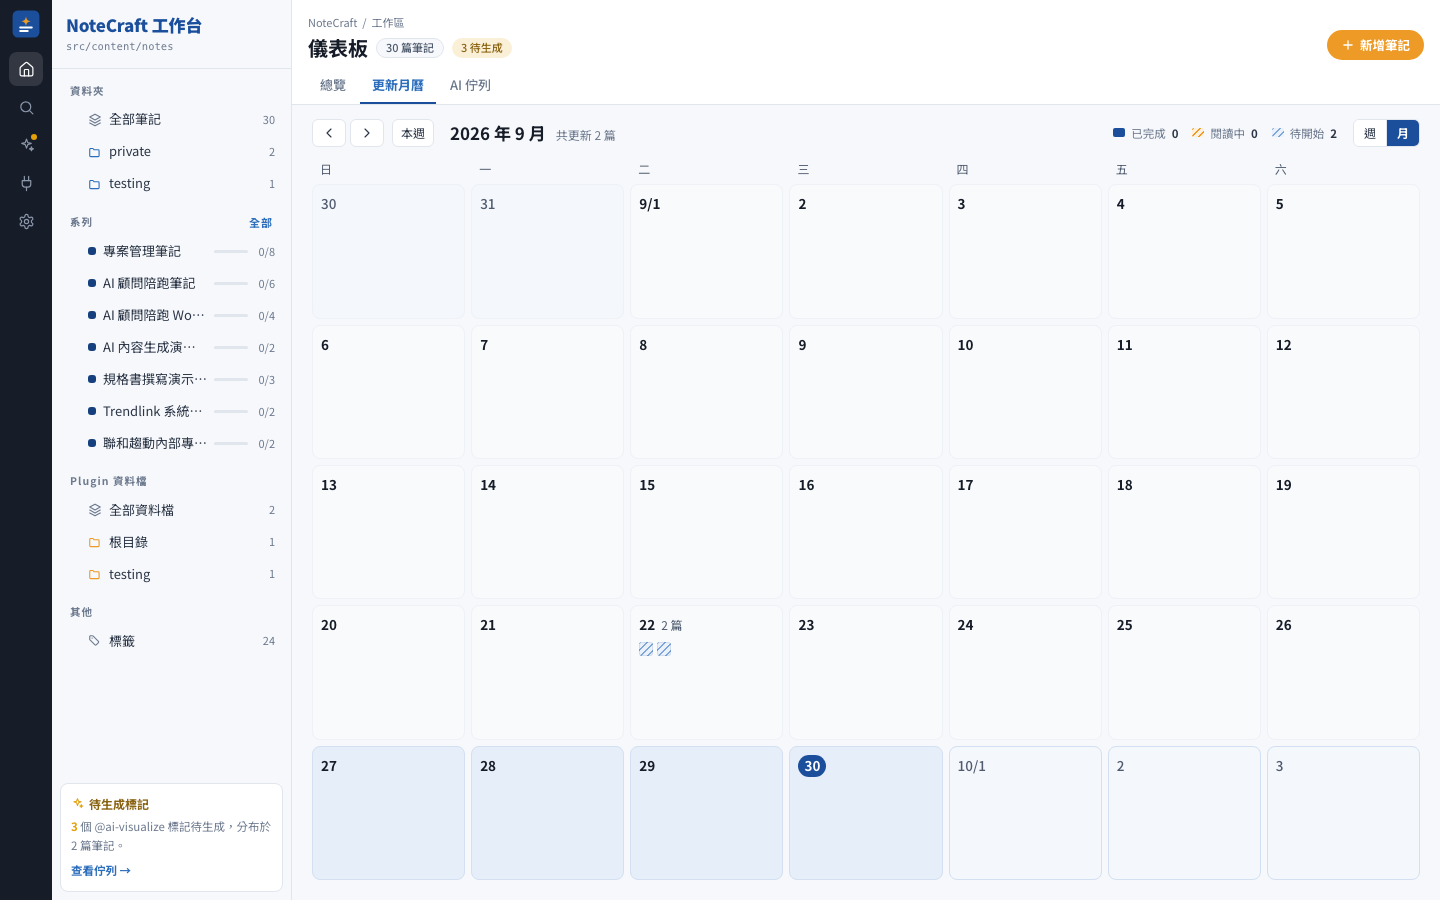
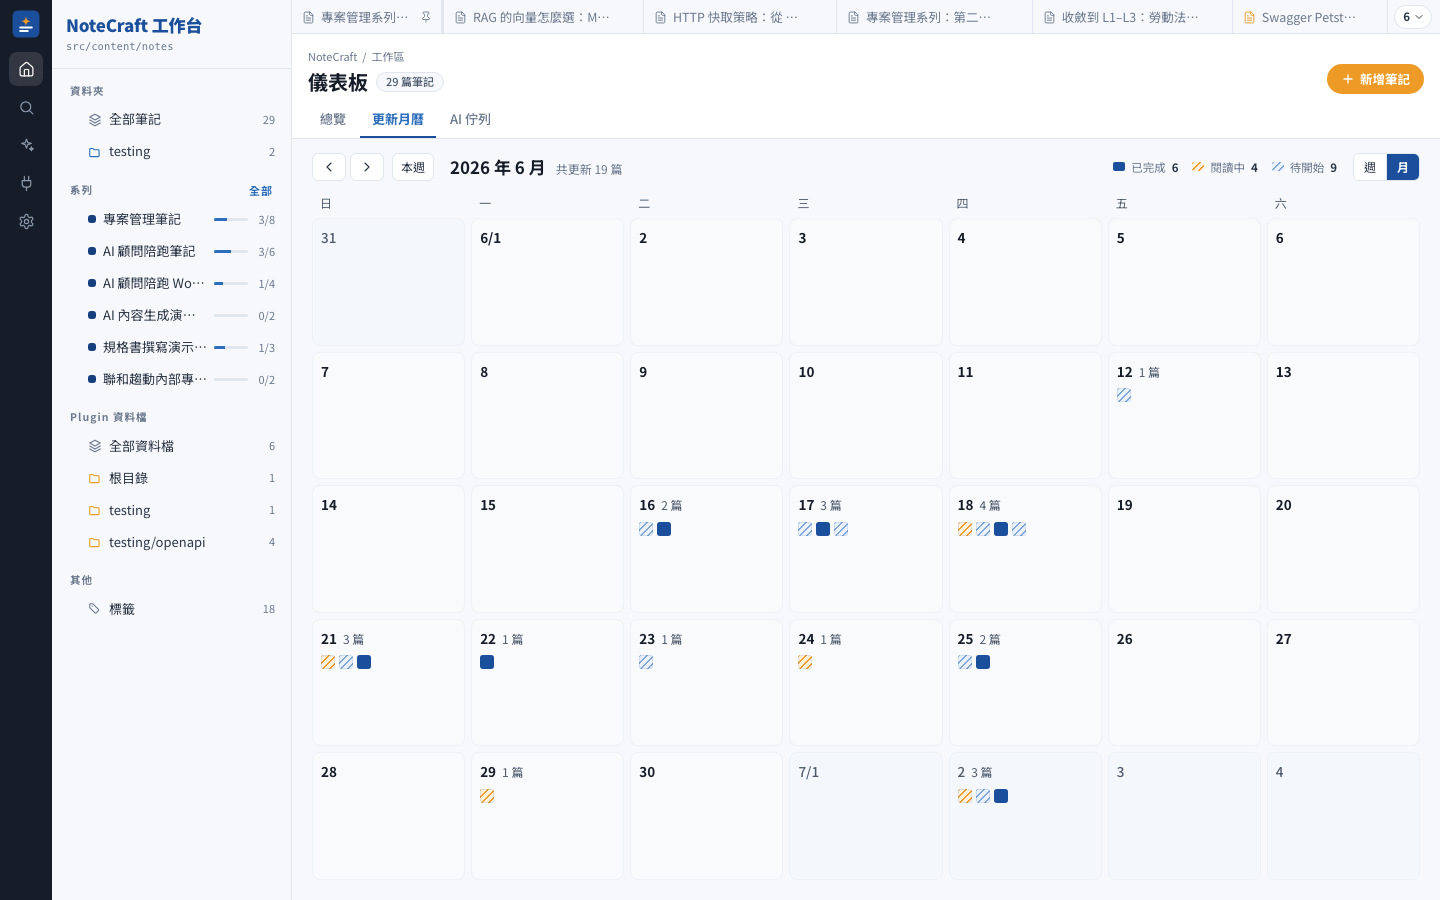
docs(readme): 重拍 README 截圖（v1.7.0 版面），新增筆記頁籤截圖
- 九張既有截圖換成目前版面：頁籤列、新版儀表板總覽、更新月曆改拍更新最多的六月
- 新增 note-tabs.png 與 README「筆記頁籤」段落
- CAPTURE.md：改用同源輔助頁預先寫入頁籤與閱讀狀態、CDP 拍照；記下 --screenshot 對 astro dev 會卡住

diff --git a/docs/screenshots/CAPTURE.md b/docs/screenshots/CAPTURE.md
@@ -1,6 +1,6 @@
 # Screenshot 捕捉指南
 
-README.md 引用了下列 8 張截圖（v1.0.0 Workbench 版面），請在 publish 前放進本資料夾。
+README.md 引用了下列 10 張截圖（v1.7.0 Workbench 版面，含頁籤列），請在 publish 前放進本資料夾。最近一次重拍：2026-10-01。
 
 ## 建議設定
 
@@ -10,35 +10,30 @@ README.md 引用了下列 8 張截圖（v1.0.0 Workbench 版面），請在 publ
 - **關掉 Astro dev toolbar**：`npx astro preferences disable devToolbar`（寫在 `.astro/settings.json`，已 gitignore），拍完再 `enable`
 - **格式**：PNG，檔名對應下列清單
 
-## 用 headless Chrome 一次拍完
+## 拍法：同源輔助頁 + Chrome DevTools Protocol
 
-dev server 開在 4329（或改成你的 port）：
+頁籤、閱讀狀態都存在 localStorage，新的瀏覽器設定檔裡是空的（頁籤列會是空狀態、Board 全擠在「未開始」），
+所以每張圖都經過一個暫時的同源輔助頁 `public/_shot.html`：
 
-```bash
-CH="/Applications/Google Chrome.app/Contents/MacOS/Google Chrome"
-shot(){ "$CH" --headless=new --disable-gpu --hide-scrollbars --window-size=1440,900 --virtual-time-budget=10000 --screenshot="docs/screenshots/$1.png" "$2"; }
-shot dashboard   "http://localhost:4329/"
-shot notes-list  "http://localhost:4329/notes"
-shot notes-board "http://localhost:4329/notes?view=board"
-shot note-detail "http://localhost:4329/notes/<某篇有 tags、多段內文與 h2 的筆記>"
-shot series      "http://localhost:4329/series"
-shot plugins     "http://localhost:4329/plugins?tab=installed"
-```
+1. 讀 `/wb-index.json`，寫入固定的頁籤清單（`nc-tabs-v1:<workspaceLabel>`，五篇筆記＋一個資料檔、第一個固定）與一組閱讀狀態（`nc-reading-progress-v1`）
+2. 用滿版 iframe 載入 `?to=` 指定的頁面
+3. 依 `?act=` 做互動：`drawer`（點第 3 列的 `.wb-row-main`）、`modal`（dispatch `nc-open-new-note`）、`tabsall`（點 `.nt-all`）、`calback4`（月曆往前翻 4 個月）；最後 `document.activeElement.blur()`
 
-`--virtual-time-budget` 讓 island hydrate 完（相對時間、系列進度、Sidebar 高亮都靠 client）再拍。
+拍照用 Node 22 腳本經 CDP 控制 headless Chrome（`--remote-debugging-port`、`Emulation.setDeviceMetricsOverride` 1440×900 @1x、
+每張 `Page.navigate` 後等約 6.5 秒再 `Page.captureScreenshot`）。
+**不要用 `chrome --headless --screenshot --virtual-time-budget`**：對著 `astro dev` 會卡住不回（HMR 的 WebSocket 讓虛擬時間停不下來）。
 
-需要互動的兩張（Drawer、新增筆記 Modal）放一個暫時的 `public/_shot.html`，用同源 iframe 載入頁面後
-`dispatchEvent(new CustomEvent("nc-open-new-note"))` 或點第 N 列的 `.wb-row-main`，拍完把檔案刪掉。
-點完記得 `document.activeElement.blur()`，否則關閉鈕會帶著 focus ring 入鏡。
+拍完刪掉 `public/_shot.html`。
 
-## 8 張圖
+## 10 張圖
 
 | 檔名 | 頁面 | 重點 |
 | --- | --- | --- |
-| `dashboard.png` | `/` | widget grid：筆記總數、AI 生成率、近 8 週長條、最近更新、系列進度、標籤分布、待生成標記 |
-| `dashboard-calendar.png` | `/?tab=calendar` | 更新月曆的月檢視：色塊、當週淡藍底、今天膠囊、圖例與週／月切換（v1.5.0） |
+| `dashboard.png` | `/` | 總覽兩列固定版面：KPI 環形圖、AI 待生成、寫作頻率堆疊長條、最近更新時間軸、系列、標籤馬賽克、更新日誌（v1.4.0） |
+| `dashboard-calendar.png` | `/?tab=calendar` 往前翻到更新最多的月份 | 更新月曆的月檢視：色塊、圖例與週／月切換（v1.5.0）。當月更新太少時畫面會很空 |
 | `notes-list.png` | `/notes` | List view 依資料夾分組、Toolbar 的分組與篩選 chip、列尾常駐的「開啟」箭頭 |
 | `notes-drawer.png` | `/notes` 點一列 | 右側 480px Drawer：摘要、Metadata、標記、同系列章節 |
+| `note-tabs.png` | `/notes/http-caching` 打開「全部頁籤」 | 頁籤列（固定、資料檔金色 icon）與全部頁籤下拉（v1.7.0） |
 | `notes-board.png` | `/notes?view=board` | 三欄（未開始／閱讀中／已完成）；先在 localStorage 放幾個閱讀狀態畫面才不會全擠在第一欄 |
 | `note-detail.png` | `/notes/<slug>` | 頁首接手標題與動作（簡報、收藏、⋯）、內文、右側黏性目錄 |
 | `series.png` | `/series` | stat strip + 一列一個系列 |
@@ -53,6 +48,6 @@ shot plugins     "http://localhost:4329/plugins?tab=installed"
 
 ## 為什麼截圖不塞進 npm 套件
 
-- 8 張 png 加起來約 1.8 MB，塞進去每個 npx 使用者都要下載
+- 10 張 png 加起來約 2.5 MB，塞進去每個 npx 使用者都要下載
 - npm README 頁面用絕對 GitHub raw URL 才會顯示；相對路徑到套件內部 npm 不會 render
 - 所以截圖只需要放在 GitHub repo，不需要打包

diff --git a/README.md b/README.md
@@ -21,7 +21,7 @@
 ![Update calendar](./docs/screenshots/dashboard-calendar.png)
 
 <details>
-<summary>更多畫面：筆記列表、Drawer 預覽、Board、Plugin 管理</summary>
+<summary>更多畫面：筆記列表、Drawer 預覽、筆記頁籤、Board、Plugin 管理</summary>
 
 **筆記列表（List view）** — 依資料夾／系列／標籤／月份分組，篩選全在網址參數，`⌘K` 隨時跨頁跳轉。
 
@@ -30,6 +30,10 @@
 **Drawer 預覽** — 單擊一列在右側預覽摘要、Metadata、`@ai-visualize` 標記與同系列章節；雙擊或列尾的箭頭才進筆記。
 
 ![Note drawer](./docs/screenshots/notes-drawer.png)
+
+**筆記頁籤** — 開過的筆記與資料檔會在最上方留下頁籤，可固定、拖曳、右鍵管理；`⌥.`／`⌥,` 切換，切回來會停在上次讀到的位置。右側「全部頁籤」可篩選、重開剛關閉的。
+
+![Note tabs](./docs/screenshots/note-tabs.png)
 
 **Board view** — 依閱讀狀態分三欄，拖曳卡片就改狀態。
 
